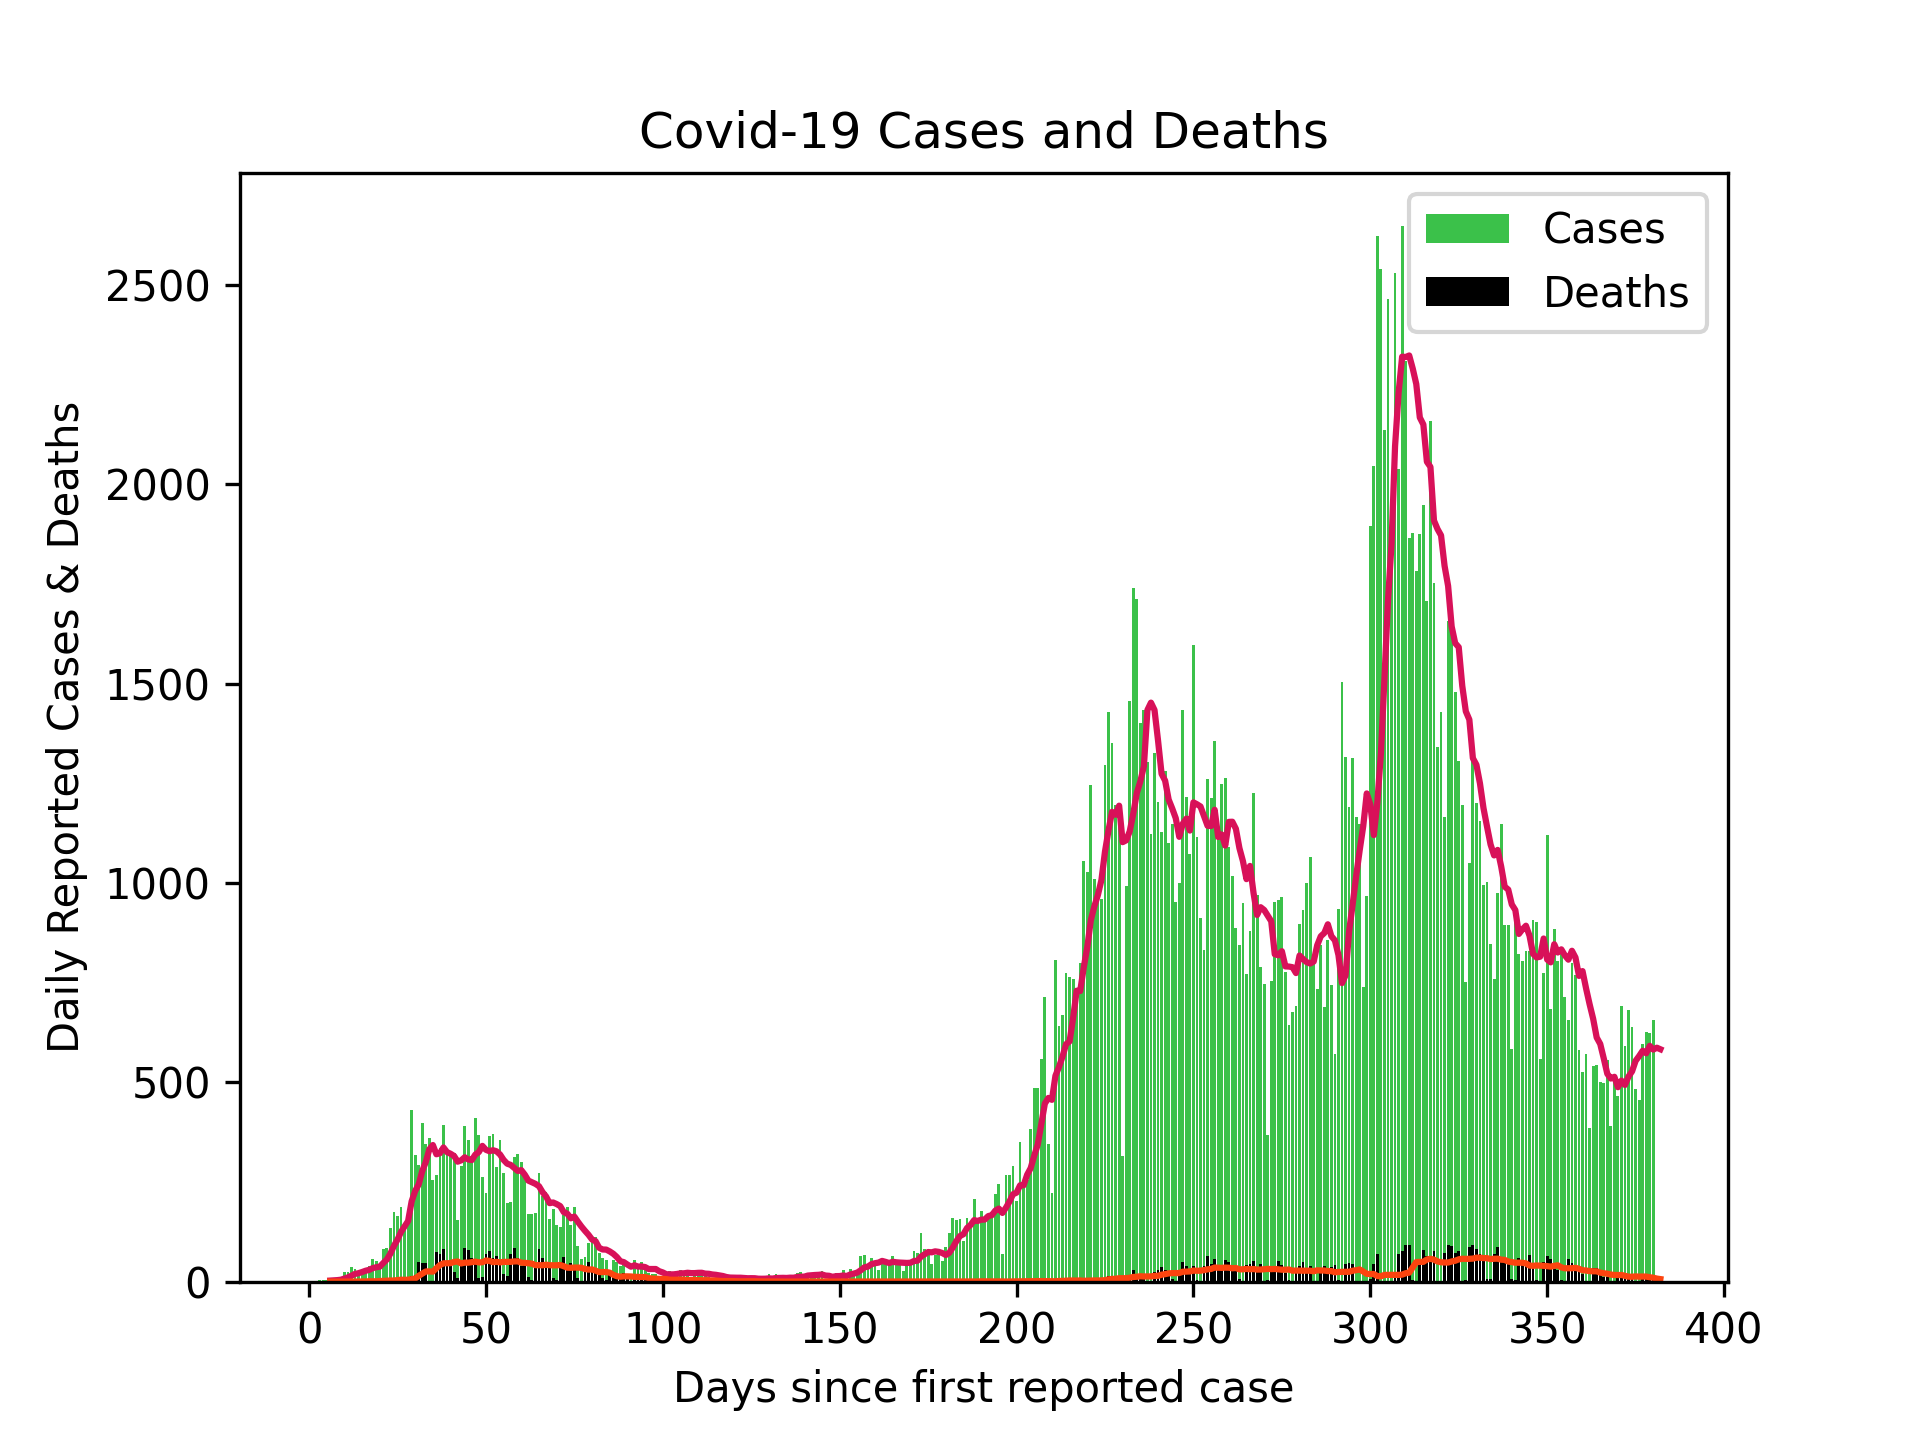
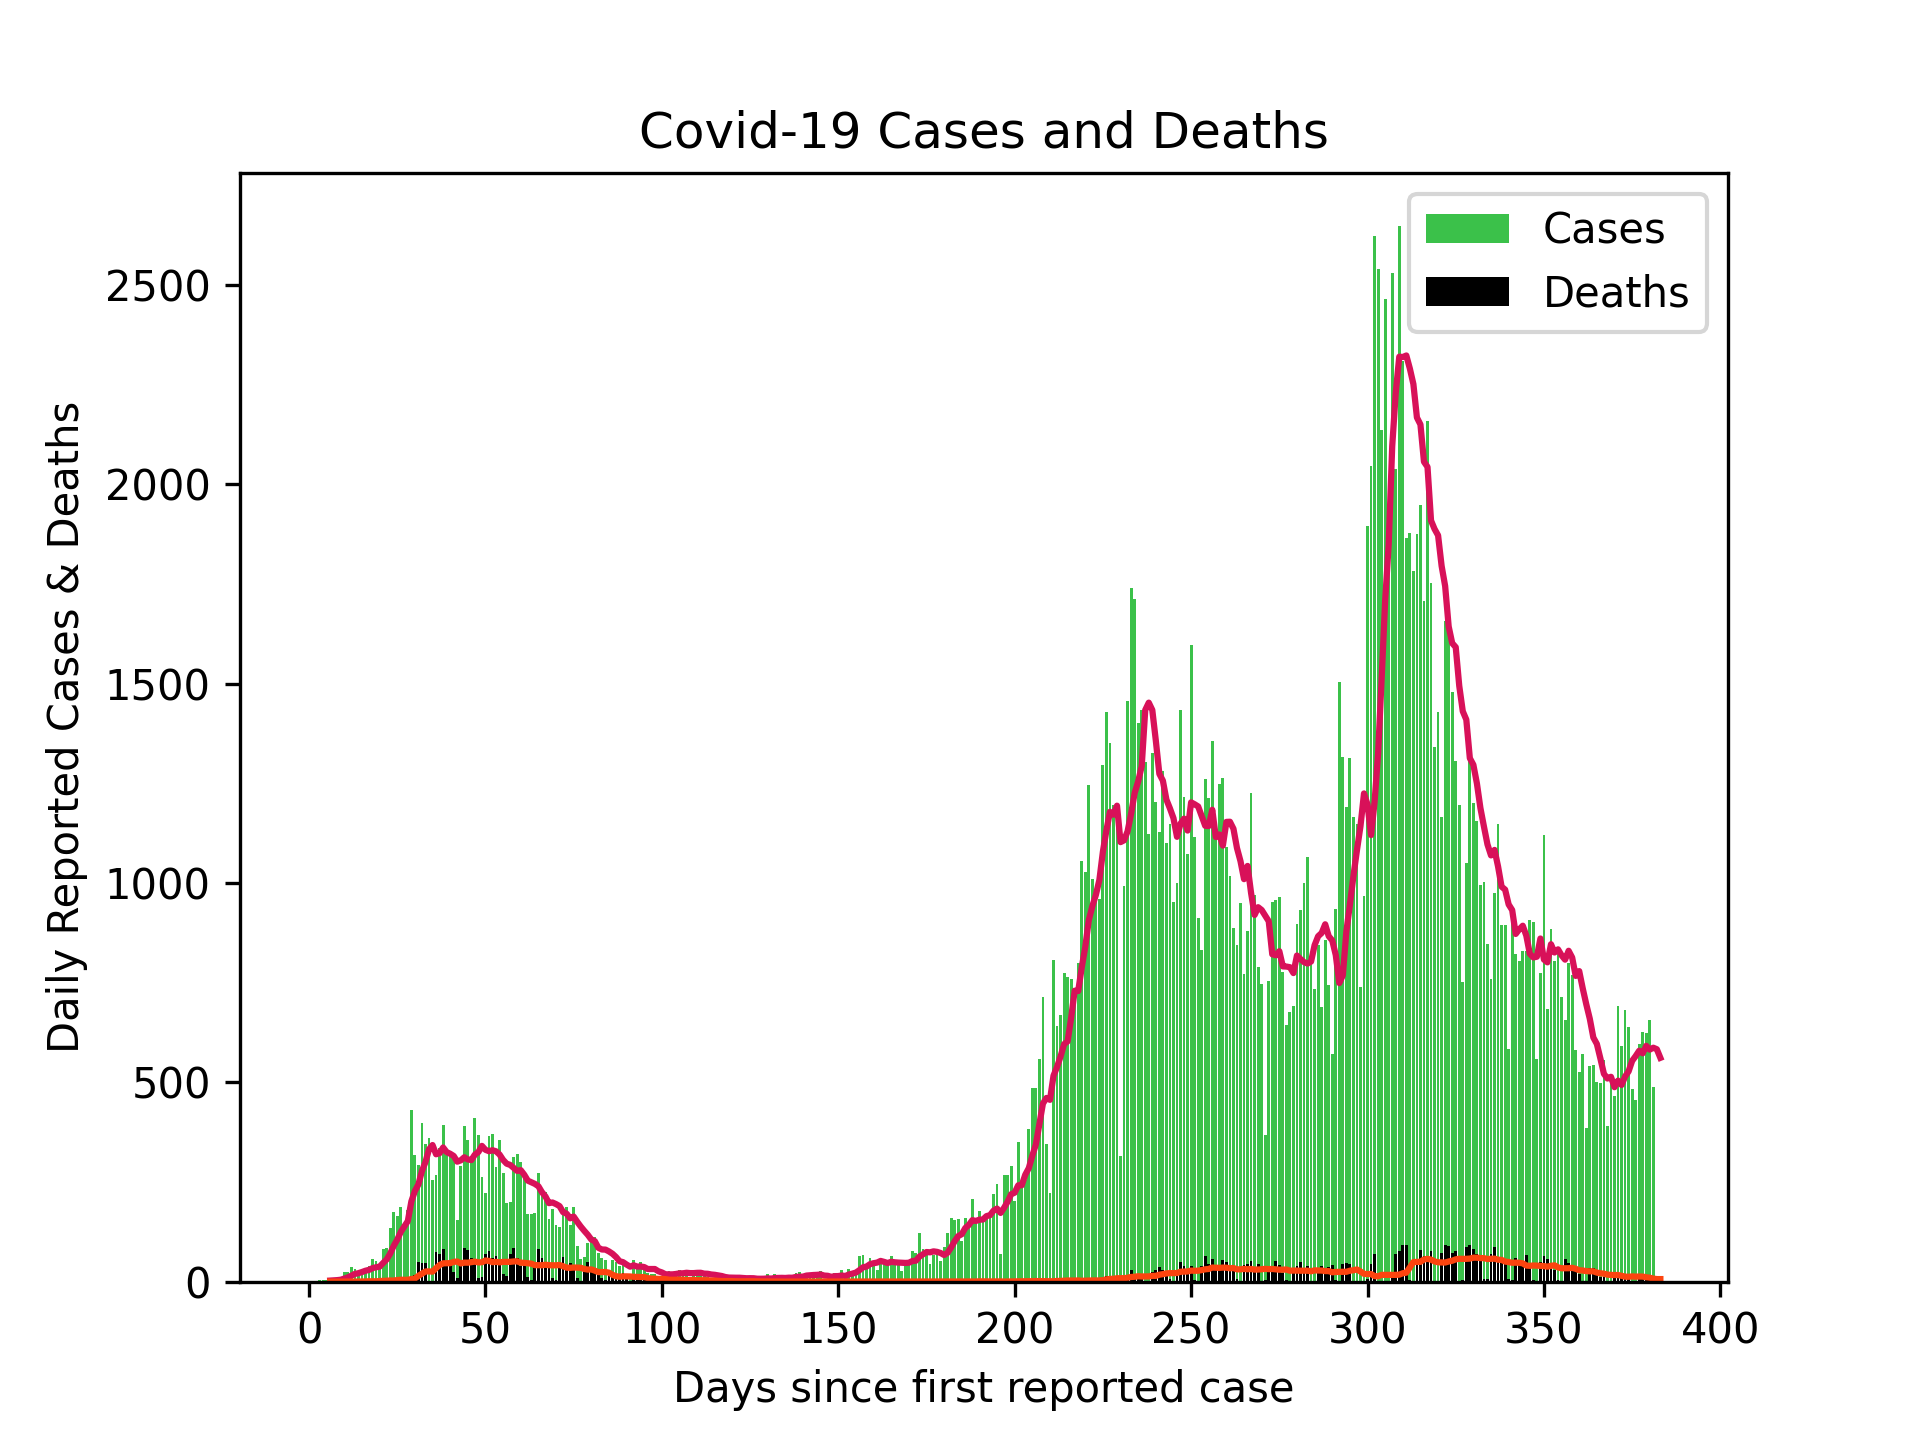
Updated Scottish cases 20/03/21

diff --git a/README.md b/README.md
@@ -1,4 +1,4 @@
-# Scottish Cases 19/03/21
+# Scottish Cases 20/03/21
 
 ![alt](scottish_cases.png)
 
